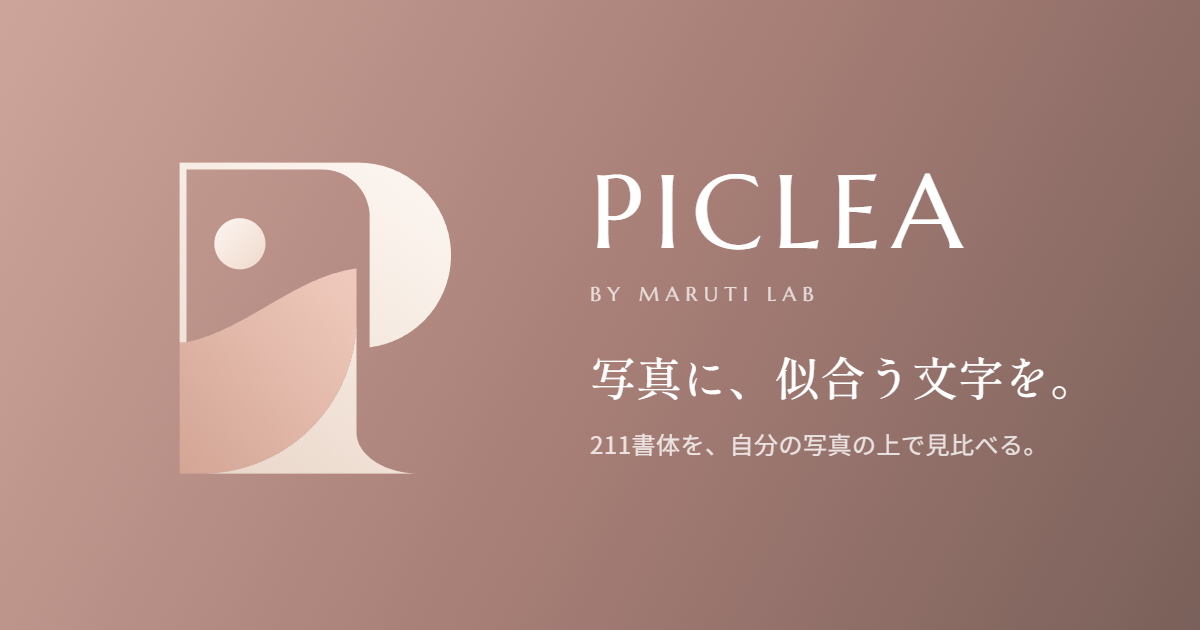
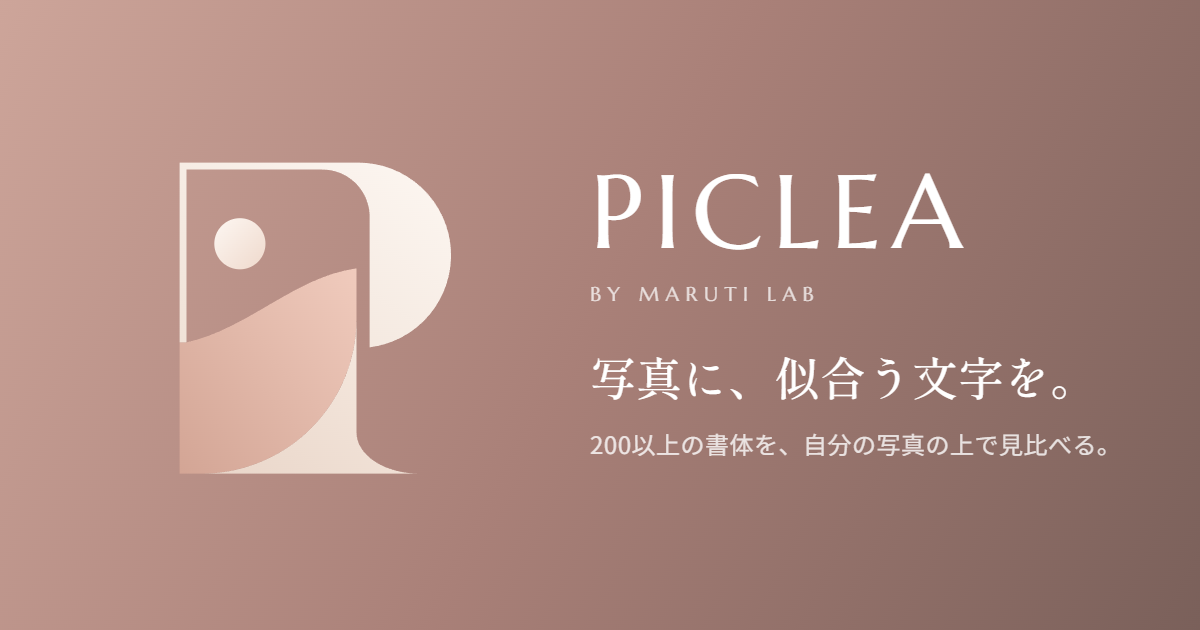
Say "200以上の書体" on PICLEA instead of exact counts
The OG image, meta descriptions, the feature heading, FAQ and link labels no
longer need touching each time a typeface is added; the licenses page still
counts them exactly.

Changed region(s): [[0.4933, 0.6635, 0.925, 0.7238]]

diff --git a/public/piclea/index.html b/public/piclea/index.html
@@ -13,17 +13,17 @@
 <meta name="apple-mobile-web-app-title" content="piclea">
 <meta name="apple-mobile-web-app-status-bar-style" content="default">
 <title>piclea — 写真に、似合う文字を。無料の文字入れツール</title>
-<meta name="description" content="自分の写真の上で、日本語73・英語138の書体を仕上がりのまま見比べて選べる、無料の文字入れツール。書体はすべて商用利用可、登録なし・透かしなし、写真はどこにも送られません。インスタのカルーセルや「型」にも対応。">
+<meta name="description" content="自分の写真の上で、日本語と英語あわせて200以上の書体を仕上がりのまま見比べて選べる、無料の文字入れツール。書体はすべて商用利用可、登録なし・透かしなし、写真はどこにも送られません。インスタのカルーセルや「型」にも対応。">
 <link rel="canonical" href="https://marutilab.com/piclea/">
 <meta property="og:type" content="website">
 <meta property="og:title" content="piclea — 写真に、似合う文字を。">
-<meta property="og:description" content="自分の写真の上で211書体を見比べて選べる、無料の文字入れツール。書体はすべて商用利用可、写真はどこにも送られません。">
+<meta property="og:description" content="自分の写真の上で200以上の書体を見比べて選べる、無料の文字入れツール。書体はすべて商用利用可、写真はどこにも送られません。">
 <meta property="og:url" content="https://marutilab.com/piclea/">
 <meta property="og:image" content="https://marutilab.com/piclea/og.png">
 <meta property="og:image:width" content="1200">
 <meta property="og:image:height" content="630">
 <meta name="twitter:card" content="summary_large_image">
-<script type="application/ld+json">{"@context":"https://schema.org","@type":"WebApplication","name":"piclea","url":"https://marutilab.com/piclea/","description":"自分の写真の上で日本語73・英語138の書体を見比べて選べる、無料の文字入れツール。写真はブラウザの中だけで処理されます。","applicationCategory":"DesignApplication","operatingSystem":"iOS, Android, Windows, macOS","inLanguage":"ja","offers":{"@type":"Offer","price":"0","priceCurrency":"JPY"},"publisher":{"@type":"Organization","name":"Maruti Lab","url":"https://marutilab.com/"}}</script>
+<script type="application/ld+json">{"@context":"https://schema.org","@type":"WebApplication","name":"piclea","url":"https://marutilab.com/piclea/","description":"自分の写真の上で日本語と英語あわせて200以上の書体を見比べて選べる、無料の文字入れツール。写真はブラウザの中だけで処理されます。","applicationCategory":"DesignApplication","operatingSystem":"iOS, Android, Windows, macOS","inLanguage":"ja","offers":{"@type":"Offer","price":"0","priceCurrency":"JPY"},"publisher":{"@type":"Organization","name":"Maruti Lab","url":"https://marutilab.com/"}}</script>
 <link rel="preconnect" href="https://fonts.googleapis.com">
 <link rel="preconnect" href="https://fonts.gstatic.com" crossorigin>
 <!-- UI (not render-blocking: the app must open even when Google is slow or down) -->
@@ -499,7 +499,7 @@ input[type=range]::-moz-range-thumb{width:22px;height:22px;border:0;border-radiu
   <p class="why-lead">文字入れアプリで迷うのは、たいてい書体選びです。見本の画像ではよく見えても、自分の写真に乗せると印象が変わる。piclea は、あなたの写真とあなたの言葉のまま全部の書体を並べるところから始まります。</p>
   <div class="why-grid">
     <article><i><svg viewBox="0 0 24 24" fill="none" stroke="currentColor" stroke-width="1.5" stroke-linecap="round" stroke-linejoin="round"><rect x="3.5" y="3.5" width="7.5" height="9" rx="1.8"/><rect x="13" y="3.5" width="7.5" height="9" rx="1.8"/><rect x="3.5" y="14.5" width="7.5" height="6" rx="1.8"/><rect x="13" y="14.5" width="7.5" height="6" rx="1.8"/></svg></i>
-      <h3>自分の写真で、211書体を見比べる</h3><p>日本語73・英語138の書体を、選んだ写真の上に仕上がりのまま一覧で並べます。気になる書体は大きく開いて、指で文字を動かしながら確かめられます。</p></article>
+      <h3>自分の写真で、200以上の書体を見比べる</h3><p>日本語と英語の書体を、選んだ写真の上に仕上がりのまま一覧で並べます。気になる書体は大きく開いて、指で文字を動かしながら確かめられます。</p></article>
     <article><i><svg viewBox="0 0 24 24" fill="none" stroke="currentColor" stroke-width="1.5" stroke-linecap="round" stroke-linejoin="round"><rect x="5" y="10.5" width="14" height="10" rx="2.5"/><path d="M8 10.5V8a4 4 0 018 0v2.5"/><circle cx="12" cy="15.5" r="1.3"/></svg></i>
       <h3>写真は、どこにも送られない</h3><p>写真の読み込みから文字入れ、保存まで、すべてスマホのブラウザの中で完結します。写真を受け取るサーバーがそもそもないので、家族や自宅の写真でも安心して使えます。</p></article>
     <article><i><svg viewBox="0 0 24 24" fill="none" stroke="currentColor" stroke-width="1.5" stroke-linecap="round" stroke-linejoin="round"><path d="M12 3.5l2.2 5 5.3.5-4 3.6 1.2 5.2L12 15.1l-4.7 2.7 1.2-5.2-4-3.6 5.3-.5z"/></svg></i>
@@ -515,7 +515,7 @@ input[type=range]::-moz-range-thumb{width:22px;height:22px;border:0;border-radiu
     <article><i><svg viewBox="0 0 24 24" fill="none" stroke="currentColor" stroke-width="1.5" stroke-linecap="round" stroke-linejoin="round"><circle cx="9" cy="9" r="5.2"/><rect x="11" y="11" width="9.5" height="9.5" rx="2"/></svg></i>
       <h3>文字、写真、図形を重ねて仕上げる</h3><p>縁取り・影・枠つきの文字、丸や角丸に切り抜いて重ねる写真、帯や余白をつくる図形。背景は写真のほか、単色やグラデーションにもできます。</p></article>
   </div>
-  <div class="why-links"><a href="guide/" target="piclea-info"><small>はじめから順に</small>使い方</a><a href="faq/" target="piclea-info"><small>料金・安全性・保存のこと</small>よくある質問</a><a href="licenses.html" target="piclea-info"><small>73＋138書体の一覧</small>フォントとライセンス</a></div>
+  <div class="why-links"><a href="guide/" target="piclea-info"><small>はじめから順に</small>使い方</a><a href="faq/" target="piclea-info"><small>料金・安全性・保存のこと</small>よくある質問</a><a href="licenses.html" target="piclea-info"><small>200以上の書体の一覧</small>フォントとライセンス</a></div>
 </section>
 
 <footer>
@@ -648,7 +648,7 @@ input[type=range]::-moz-range-thumb{width:22px;height:22px;border:0;border-radiu
       <a href="#why-title" data-why><i><svg viewBox="0 0 24 24" fill="none" stroke="currentColor" stroke-width="1.5" stroke-linecap="round" stroke-linejoin="round"><path d="M12 3.5l2.2 5 5.3.5-4 3.6 1.2 5.2L12 15.1l-4.7 2.7 1.2-5.2-4-3.6 5.3-.5z"/></svg></i><span><b>piclea の特長</b><small>できること・安心して使える理由</small></span></a>
       <a href="guide/" target="piclea-info"><i><svg viewBox="0 0 24 24" fill="none" stroke="currentColor" stroke-width="1.5" stroke-linecap="round" stroke-linejoin="round"><path d="M4 5.5A1.5 1.5 0 015.5 4H11v16H5.5A1.5 1.5 0 014 18.5zM20 5.5A1.5 1.5 0 0018.5 4H13v16h5.5a1.5 1.5 0 001.5-1.5z"/></svg></i><span><b>使い方</b><small>写真を選んでから保存するまで</small></span></a>
       <a href="faq/" target="piclea-info"><i><svg viewBox="0 0 24 24" fill="none" stroke="currentColor" stroke-width="1.5" stroke-linecap="round" stroke-linejoin="round"><circle cx="12" cy="12" r="8.5"/><path d="M9.6 9.5a2.5 2.5 0 014.8.9c0 1.7-2.4 2-2.4 3.6M12 17h.01"/></svg></i><span><b>よくある質問</b><small>料金・安全性・保存のこと</small></span></a>
-      <a href="licenses.html" target="piclea-info"><i><svg viewBox="0 0 24 24" fill="none" stroke="currentColor" stroke-width="1.5" stroke-linecap="round" stroke-linejoin="round"><path d="M6 18.5L10.5 5.5h3L18 18.5M8 13.5h8"/></svg></i><span><b>フォントとライセンス</b><small>73＋138書体の一覧・すべて商用利用可</small></span></a>
+      <a href="licenses.html" target="piclea-info"><i><svg viewBox="0 0 24 24" fill="none" stroke="currentColor" stroke-width="1.5" stroke-linecap="round" stroke-linejoin="round"><path d="M6 18.5L10.5 5.5h3L18 18.5M8 13.5h8"/></svg></i><span><b>フォントとライセンス</b><small>200以上の書体の一覧・すべて商用利用可</small></span></a>
     </nav>
     <div class="mfoot"><a href="/contact" target="piclea-info">お問い合わせ</a><a href="/privacy" target="piclea-info">プライバシーポリシー</a></div>
     <button class="stext" data-mclose>閉じる</button>

diff --git a/public/piclea/faq/index.html b/public/piclea/faq/index.html
@@ -75,7 +75,7 @@
   <h2>フォント</h2>
   <dl>
     <div><dt>作った画像を仕事やお店の宣伝に使ってもいいですか？</dt><dd><p>はい。piclea の書体はすべて、SIL Open Font License 1.1 や Apache License 2.0 など、商用利用も認められた無料のライセンスで公開されているものです。作った画像はお店の告知、商品紹介、チラシなどにも自由に使えます。書体ごとの作者とライセンスは<a href="../licenses.html">フォントとライセンス</a>にまとめています。</p></dd></div>
-    <div><dt>いくつの書体が使えますか？</dt><dd><p>日本語が73書体、英語が138書体です。明朝・丸ゴシック・ゴシック・手書き・ポップ・筆など、インスタの投稿でよく使われる雰囲気を中心に選んでいます。英語の書体は Google Fonts での人気を参考にしています。</p></dd></div>
+    <div><dt>いくつの書体が使えますか？</dt><dd><p>日本語と英語をあわせて200以上です（いまの数は<a href="../licenses.html">フォントとライセンス</a>に載せています）。明朝・丸ゴシック・ゴシック・手書き・ポップ・筆など、インスタの投稿でよく使われる雰囲気を中心に選んでいます。英語の書体は Google Fonts での人気を参考にしています。</p></dd></div>
     <div><dt>「一部の文字なし」と表示されるのはなぜですか？</dt><dd><p>その書体に、入力した文字の一部が入っていないという印です。手書き風やデザイン性の強い日本語書体は、難しい漢字や一部の記号を持っていないことがあります。足りない文字だけ別の書体で表示されるので、気になるときは別の書体を選ぶか、言い回しを変えてみてください。</p></dd></div>
     <div><dt>縦書きはできますか？</dt><dd><p>できます。一覧の画面では下のバーの「横書き」を押すと縦書きに切り替わります。編集画面では文字を選んで「配置」→「縦書き」です。句読点やかっこは縦書き用の形に置き換えて表示します。</p></dd></div>
     <div><dt>自分の持っているフォントや、ほかの書体を使えますか？</dt><dd><p>今は piclea に入っている書体だけを使えます。追加してほしい書体があれば、<a href="/contact">お問い合わせ</a>から書体名を教えてください。無料で使えるライセンスのものは、追加を検討します。</p></dd></div>
@@ -106,7 +106,7 @@
 
 <div class="next">
   <a href="../guide/"><small>はじめから順に</small>使い方</a>
-  <a href="../licenses.html"><small>73＋138書体の一覧</small>フォントとライセンス</a>
+  <a href="../licenses.html"><small>200以上の書体の一覧</small>フォントとライセンス</a>
   <a href="../"><small>さっそく</small>piclea を使う</a>
 </div>
 </main>

diff --git a/public/piclea/guide/index.html b/public/piclea/guide/index.html
@@ -5,11 +5,11 @@
 <meta name="viewport" content="width=device-width, initial-scale=1, viewport-fit=cover">
 <meta name="theme-color" content="#a98078">
 <title>使い方 — piclea（写真に文字を入れる無料ツール）</title>
-<meta name="description" content="piclea の使い方をはじめから順に。写真を選んで211書体を自分の写真の上で見比べ、文字・図形・重ねた写真で仕上げ、インスタ用の画像やカルーセルとして保存するまでを、画面の言葉どおりに説明します。">
+<meta name="description" content="piclea の使い方をはじめから順に。写真を選んで200以上の書体を自分の写真の上で見比べ、文字・図形・重ねた写真で仕上げ、インスタ用の画像やカルーセルとして保存するまでを、画面の言葉どおりに説明します。">
 <link rel="canonical" href="https://marutilab.com/piclea/guide/">
 <meta property="og:type" content="article">
 <meta property="og:title" content="使い方 — piclea（写真に文字を入れる無料ツール）">
-<meta property="og:description" content="piclea の使い方をはじめから順に。写真を選んで211書体を自分の写真の上で見比べ、文字・図形・重ねた写真で仕上げ、インスタ用の画像やカルーセルとして保存するまでを、画面の言葉どおりに説明します。">
+<meta property="og:description" content="piclea の使い方をはじめから順に。写真を選んで200以上の書体を自分の写真の上で見比べ、文字・図形・重ねた写真で仕上げ、インスタ用の画像やカルーセルとして保存するまでを、画面の言葉どおりに説明します。">
 <meta property="og:url" content="https://marutilab.com/piclea/guide/">
 <meta property="og:image" content="https://marutilab.com/piclea/og.png">
 <meta property="og:image:width" content="1200">
@@ -180,7 +180,7 @@
 
 <div class="next">
   <a href="../faq/"><small>困ったときは</small>よくある質問</a>
-  <a href="../licenses.html"><small>73＋138書体の一覧</small>フォントとライセンス</a>
+  <a href="../licenses.html"><small>200以上の書体の一覧</small>フォントとライセンス</a>
   <a href="../"><small>さっそく</small>piclea を使う</a>
 </div>
 </main>
